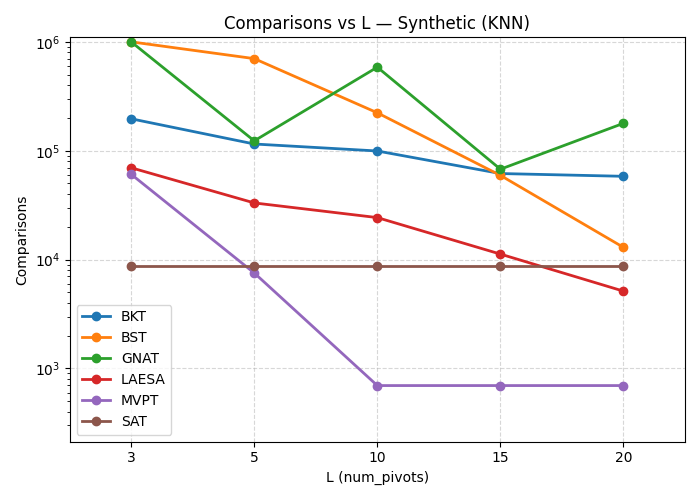
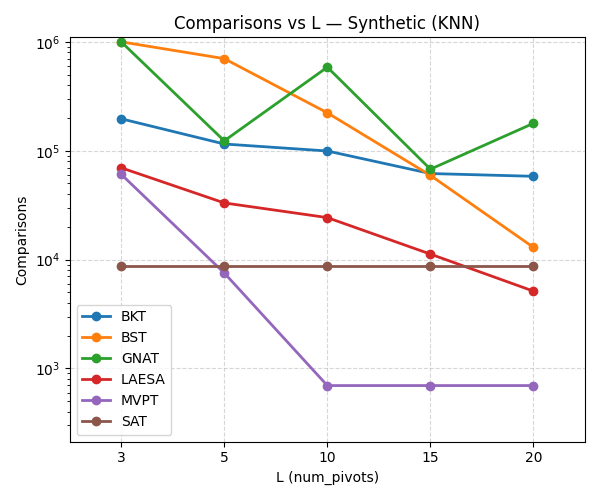
new plots for main memory

diff --git a/main_memory/plot.py b/main_memory/plot.py
@@ -63,7 +63,7 @@ def compute_linthresh(values, factor=0.1, default=1.0):
     return max(default, np.median(pos) * factor)
 
 # ============================================================
-# Función para graficar individualmente
+# Graficar individualmente (menos ancho)
 # ============================================================
 def plot_metric(group, group_name, metric, ylabel):
     indexes = sorted(set([d["index"] for d in group]))
@@ -74,7 +74,7 @@ def plot_metric(group, group_name, metric, ylabel):
     pivot_positions = np.arange(len(pivot_ticks))
 
     for ds in datasets:
-        plt.figure(figsize=(7, 5))
+        plt.figure(figsize=(6, 5))  # <-- reducir ancho (antes 7,5)
         subset = [d for d in group if d["dataset"] == ds]
         if not subset: continue
 
@@ -133,8 +133,9 @@ def plot_metric(group, group_name, metric, ylabel):
         plt.close()
         print(f"Guardado: {filename}")
 
+
 # ============================================================
-# Función para graficar todo combinado en una gran figura
+# Graficar combinadas (menos ancho)
 # ============================================================
 def plot_combined(group, group_name):
     indexes = sorted(set([d["index"] for d in group]))
@@ -148,7 +149,7 @@ def plot_combined(group, group_name):
     colors = plt.cm.tab20.colors
     markers = ['o','s','^','v','D','P','*','X','H']
 
-    fig, axes = plt.subplots(len(datasets), len(metrics), figsize=(16, 12), sharex=False)
+    fig, axes = plt.subplots(len(datasets), len(metrics), figsize=(10, 12), sharex=False)  # <-- reducir ancho (antes 16,12)
 
     for row_idx, ds in enumerate(datasets):
         subset = [d for d in group if d["dataset"] == ds]
